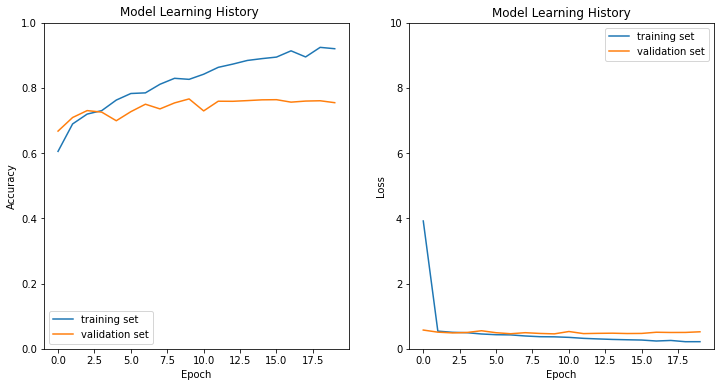
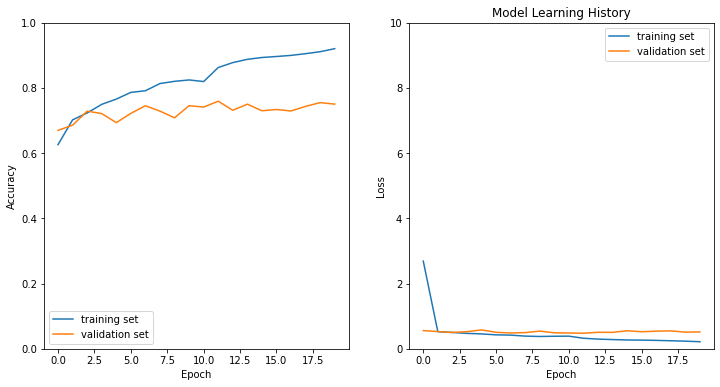
readme and plots

diff --git a/README.md b/README.md
@@ -16,17 +16,15 @@ The health company **"skinCare"** wants to create a simple web page where the us
 * Pillow==8.3.2
 * streamlit==0.88.0
 * tensorflow-gpu==2.5.0
-* keras
 * cv2
-* sklearn.metrics
+* sklearn
 
 # Usage 
 | File | Description |
 |:---|:---|
-|app.py|used for streamlit application|
-|skin_cancer_model.py|used for streamlit backend function file|
-|models/base_model_v5.h5|saved cnn model|
-|models/keras_model_skin_or_else|saved model for streamlit application|
+|cnn_model.py|Keras Neural Network (python file)|
+|data.py|Data pre-processing (python file)|
+|app @ 5720816|herokuapp folder|
 
 # Data Source
 Dataset: The [__HAM10000__](https://dataverse.harvard.edu/dataset.xhtml?persistentId=doi:10.7910/DVN/DBW86T)
@@ -51,7 +49,15 @@ Dataset: The [__HAM10000__](https://dataverse.harvard.edu/dataset.xhtml?persiste
 **0** - Not Cancer</br>
 **1** - Cancer
 # Model Performance
-## Model Arquitecture
+## Metrics:
+| Metric | Value |
+|:---|:---|
+|Test Accuracy|0.75|
+|Test Loss|0.5|
+|Validation Acc|0.75|
+|Validation Loss|0.5|
+
+## Model Architecture
 
 <img src="visuals/model_sum.PNG" alt="sum" width="1024"/>
 
@@ -59,7 +65,7 @@ Dataset: The [__HAM10000__](https://dataverse.harvard.edu/dataset.xhtml?persiste
 <img src="visuals/history_plot.png" alt="hist" width="1024"/>
 
 # Model Evaluation
-<img src="visuals/matrix_model_v2_05.png" alt="matrix" width="1024"/>
+<img src="visuals/matrix_model_v2_06.png" alt="matrix" width="1024"/>
 
 # Website
 https://skin-cancer-application.herokuapp.com/
